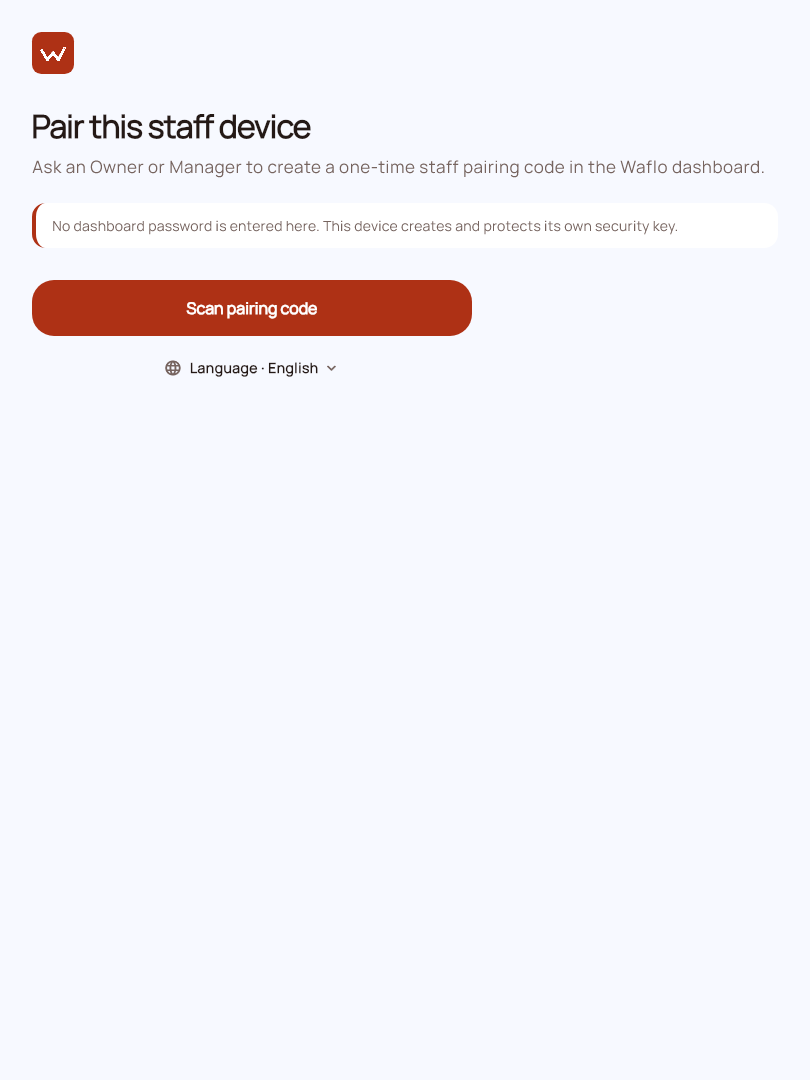
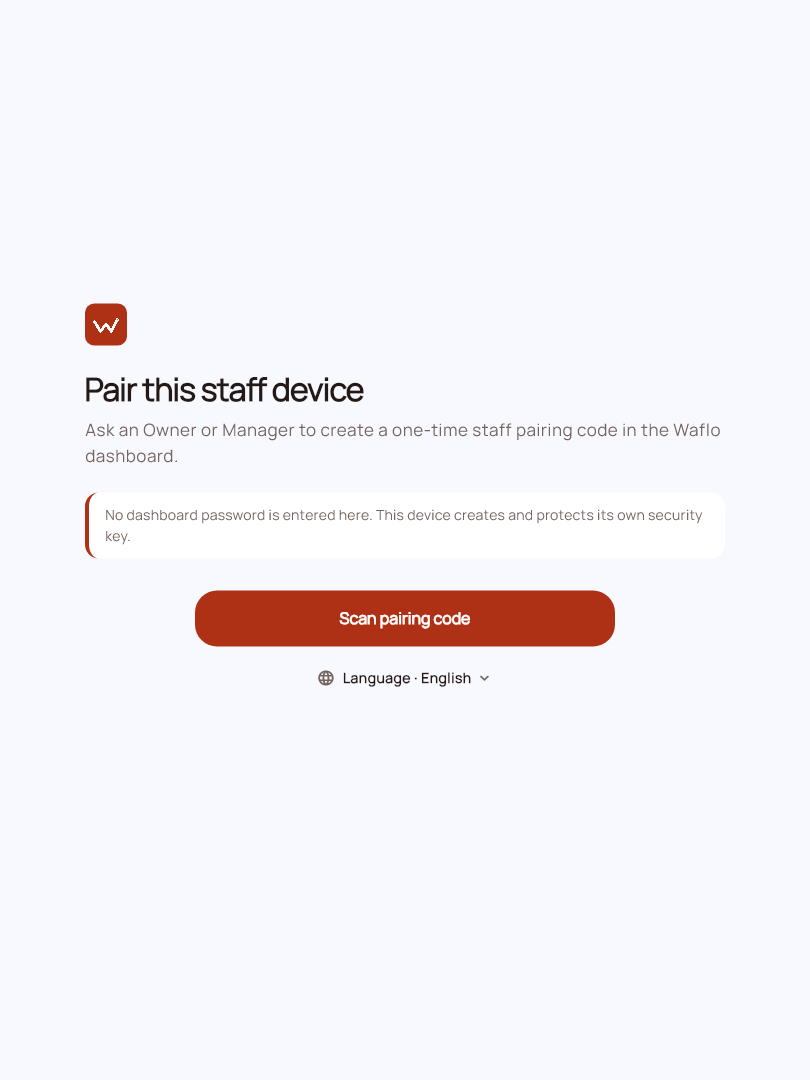
feat: add responsive tablet layouts for pairing screens and verify with new widget tests

diff --git a/lib/features/pairing/presentation/pairing_screens.dart b/lib/features/pairing/presentation/pairing_screens.dart
@@ -83,24 +83,26 @@ final class _WelcomeScreen extends ConsumerWidget {
             child: ConstrainedBox(
               constraints: BoxConstraints(minHeight: constraints.maxHeight),
               child: Align(
-                alignment: AlignmentDirectional.topCenter,
+                alignment: const AlignmentDirectional(0, -.12),
                 child: ConstrainedBox(
-                  constraints: const BoxConstraints(
-                    maxWidth: WafloLayout.maximumMediumContentWidth,
-                  ),
-                  child: Column(
-                    crossAxisAlignment: CrossAxisAlignment.stretch,
-                    children: [
-                      _PairingWelcomeIntroduction(strings: strings),
-                      const SizedBox(height: WafloSpacing.xl),
-                      Align(
-                        alignment: AlignmentDirectional.centerStart,
-                        child: ConstrainedBox(
-                          constraints: const BoxConstraints(maxWidth: 440),
-                          child: actions,
+                  constraints: const BoxConstraints(maxWidth: 640),
+                  child: SizedBox(
+                    key: const Key('pairing-medium-workspace'),
+                    width: double.infinity,
+                    child: Column(
+                      crossAxisAlignment: CrossAxisAlignment.stretch,
+                      children: [
+                        _PairingWelcomeIntroduction(strings: strings),
+                        const SizedBox(height: WafloSpacing.xl),
+                        Align(
+                          alignment: AlignmentDirectional.center,
+                          child: ConstrainedBox(
+                            constraints: const BoxConstraints(maxWidth: 420),
+                            child: actions,
+                          ),
                         ),
-                      ),
-                    ],
+                      ],
+                    ),
                   ),
                 ),
               ),
@@ -109,19 +111,53 @@ final class _WelcomeScreen extends ConsumerWidget {
           final wide = SingleChildScrollView(
             child: ConstrainedBox(
               constraints: BoxConstraints(minHeight: constraints.maxHeight),
-              child: IntrinsicHeight(
-                child: WafloWideSplit(
-                  crossAxisAlignment: CrossAxisAlignment.stretch,
-                  primary: Align(
-                    alignment: AlignmentDirectional.centerStart,
-                    child: _PairingWelcomeIntroduction(strings: strings),
-                  ),
-                  secondary: Align(
-                    alignment: AlignmentDirectional.center,
-                    child: WafloSurfaceCard(
-                      key: const Key('pairing-action-pane'),
-                      padding: const EdgeInsetsDirectional.all(WafloSpacing.xl),
-                      child: actions,
+              child: Align(
+                alignment: AlignmentDirectional.center,
+                child: ConstrainedBox(
+                  constraints: const BoxConstraints(maxWidth: 980),
+                  child: Container(
+                    key: const Key('pairing-wide-workspace'),
+                    width: double.infinity,
+                    padding: const EdgeInsetsDirectional.all(WafloSpacing.xl),
+                    decoration: BoxDecoration(
+                      color: Theme.of(context).colorScheme.surfaceContainerLow,
+                      borderRadius: BorderRadius.circular(
+                        WafloRadius.extraLarge,
+                      ),
+                      border: Border.all(
+                        color: Theme.of(
+                          context,
+                        ).colorScheme.outlineVariant.withValues(alpha: .72),
+                      ),
+                    ),
+                    child: IntrinsicHeight(
+                      child: Row(
+                        crossAxisAlignment: CrossAxisAlignment.stretch,
+                        children: [
+                          Expanded(
+                            flex: 6,
+                            child: _PairingWelcomeIntroduction(
+                              strings: strings,
+                            ),
+                          ),
+                          const SizedBox(width: WafloSpacing.lg),
+                          VerticalDivider(
+                            key: const Key('pairing-workspace-divider'),
+                            width: 1,
+                            thickness: 1,
+                            color: Theme.of(context).colorScheme.outlineVariant,
+                          ),
+                          const SizedBox(width: WafloSpacing.lg),
+                          Expanded(
+                            flex: 5,
+                            child: Container(
+                              key: const Key('pairing-action-pane'),
+                              alignment: AlignmentDirectional.center,
+                              child: actions,
+                            ),
+                          ),
+                        ],
+                      ),
                     ),
                   ),
                 ),
@@ -157,7 +193,7 @@ final class _PairingWelcomeIntroduction extends StatelessWidget {
         alignment: AlignmentDirectional.centerStart,
         child: WafloBrandMark(size: 42),
       ),
-      SizedBox(height: compact ? 40 : WafloSpacing.xl),
+      SizedBox(height: compact ? 40 : WafloSpacing.lg),
       Text(
         strings.welcomeTitle,
         style: Theme.of(context).textTheme.headlineMedium,

diff --git a/test/widget/tablet_responsive_test.dart b/test/widget/tablet_responsive_test.dart
@@ -178,13 +178,21 @@ void main() {
     );
     expect(find.byKey(const Key('waflo-adaptive-medium')), findsOneWidget);
     expect(find.byKey(const Key('pairing-security-rail')), findsOneWidget);
+    final mediumWorkspace = find.byKey(const Key('pairing-medium-workspace'));
+    final mediumActions = find.byKey(const Key('pairing-actions-group'));
+    expect(tester.getSize(mediumWorkspace).width, lessThanOrEqualTo(640));
+    expect(tester.getSize(mediumActions).width, lessThanOrEqualTo(420));
     expect(
-      tester.getSize(find.byKey(const Key('pairing-actions-group'))).width,
-      lessThanOrEqualTo(440),
+      tester.getCenter(mediumActions).dx,
+      closeTo(tester.getCenter(mediumWorkspace).dx, 1),
     );
     expect(
-      tester.getBottomRight(find.byKey(const Key('pairing-actions-group'))).dy,
-      lessThan(_mediumIpadWindow.height * .6),
+      tester.getCenter(mediumWorkspace).dy,
+      closeTo(_mediumIpadWindow.height / 2, 32),
+    );
+    expect(
+      tester.getBottomRight(mediumActions).dy,
+      lessThan(_mediumIpadWindow.height * .75),
     );
     expect(tester.takeException(), isNull);
 
@@ -197,13 +205,30 @@ void main() {
       ),
     );
     expect(find.byKey(const Key('waflo-adaptive-wide')), findsOneWidget);
+    final workspace = find.byKey(const Key('pairing-wide-workspace'));
     final introduction = find.byKey(const Key('pairing-introduction-pane'));
     final actions = find.byKey(const Key('pairing-action-pane'));
+    final divider = find.byKey(const Key('pairing-workspace-divider'));
+    expect(workspace, findsOneWidget);
     expect(introduction, findsOneWidget);
     expect(actions, findsOneWidget);
+    expect(divider, findsOneWidget);
+    expect(tester.getSize(workspace).width, lessThanOrEqualTo(980));
+    expect(
+      tester.getCenter(workspace).dx,
+      closeTo(_iPadProLandscape.width / 2, 1),
+    );
     expect(
       tester.getTopLeft(introduction).dx,
       greaterThan(tester.getTopLeft(actions).dx),
+    );
+    expect(
+      tester.getTopLeft(introduction).dx - tester.getTopRight(actions).dx,
+      inInclusiveRange(40, 64),
+    );
+    expect(
+      tester.getCenter(introduction).dy,
+      closeTo(tester.getCenter(actions).dy, 1),
     );
     expect(
       tester.getSize(find.byKey(const Key('scan-pairing-code'))).width,
@@ -225,6 +250,67 @@ void main() {
       TextDirection.rtl,
     );
     expect(tester.takeException(), isNull);
+  });
+
+  testWidgets('Pairing portrait stays grouped on iPad and Android tablets', (
+    tester,
+  ) async {
+    _resetViewAfterTest(tester);
+    for (final size in [_iPadPortrait, _androidPortrait]) {
+      await _pumpAt(
+        tester,
+        size,
+        _pairingHarness(const PairingViewState.welcome()),
+      );
+      final workspace = find.byKey(const Key('pairing-medium-workspace'));
+      final actions = find.byKey(const Key('pairing-actions-group'));
+
+      expect(find.byKey(const Key('waflo-adaptive-medium')), findsOneWidget);
+      expect(tester.getSize(workspace).width, lessThanOrEqualTo(640));
+      expect(tester.getCenter(workspace).dx, closeTo(size.width / 2, 1));
+      expect(tester.getCenter(workspace).dy, closeTo(size.height / 2, 64));
+      expect(tester.getBottomRight(actions).dy, lessThan(size.height * .7));
+      expect(tester.takeException(), isNull, reason: '$size');
+    }
+  });
+
+  testWidgets('Pairing wide workspace mirrors across all supported scripts', (
+    tester,
+  ) async {
+    _resetViewAfterTest(tester);
+    for (final size in [_iPadProLandscape, _androidLandscape]) {
+      for (final locale in WafloLocales.selectable) {
+        await _pumpAt(
+          tester,
+          size,
+          _pairingHarness(const PairingViewState.welcome(), locale: locale),
+        );
+        final workspace = find.byKey(const Key('pairing-wide-workspace'));
+        final introduction = find.byKey(const Key('pairing-introduction-pane'));
+        final actions = find.byKey(const Key('pairing-action-pane'));
+        final isRtl = WafloLocales.usesArabicScript(locale);
+        final reason = '${size.width}x${size.height} ${locale.toLanguageTag()}';
+
+        expect(
+          Directionality.of(tester.element(workspace)),
+          isRtl ? TextDirection.rtl : TextDirection.ltr,
+          reason: reason,
+        );
+        expect(
+          tester.getCenter(introduction).dx,
+          isRtl
+              ? greaterThan(tester.getCenter(actions).dx)
+              : lessThan(tester.getCenter(actions).dx),
+          reason: reason,
+        );
+        expect(
+          tester.getCenter(workspace).dx,
+          closeTo(size.width / 2, 1),
+          reason: reason,
+        );
+        expect(tester.takeException(), isNull, reason: reason);
+      }
+    }
   });
 
   testWidgets('manual pairing and scanner controls remain tablet-sized', (
